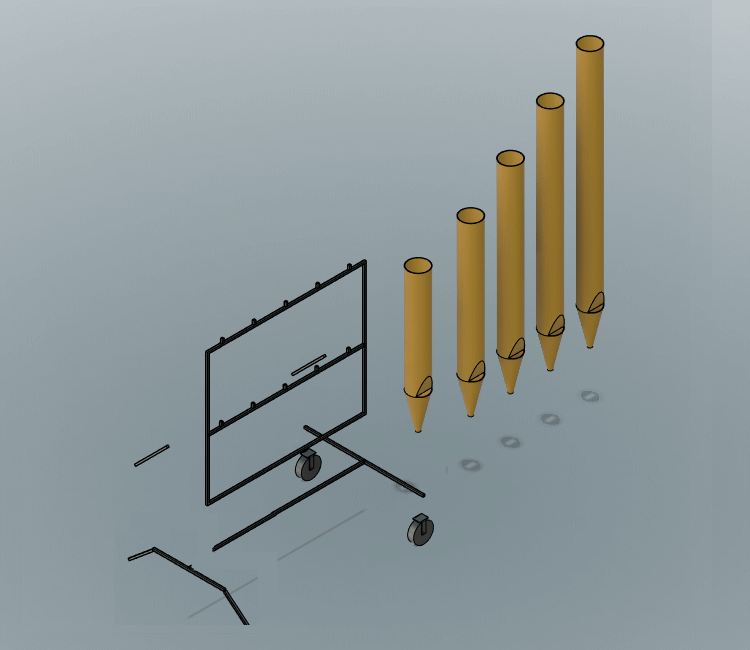
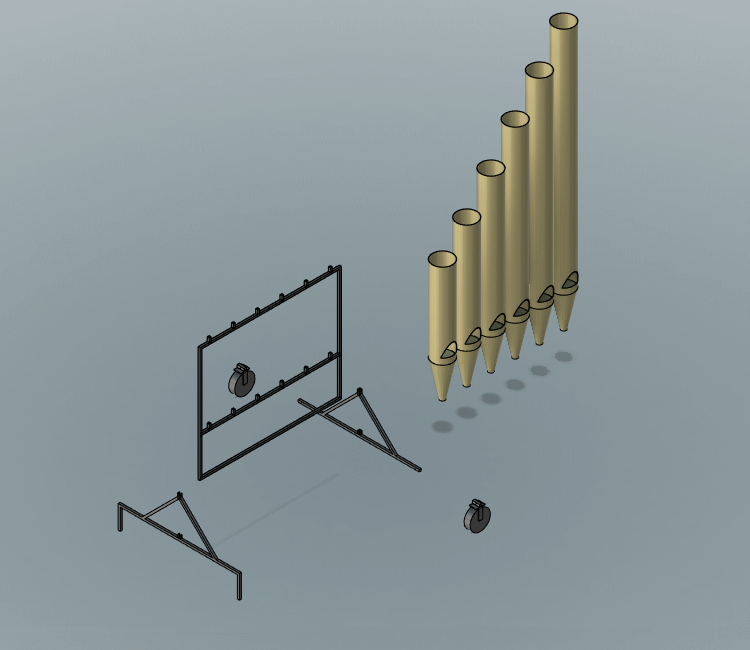
props update

diff --git a/projects/57/index.html b/projects/57/index.html
@@ -148,7 +148,7 @@
                                 <div class="col">
                                     <a href="animation_2.gif" target="_blank"><img src="animation_2.gif" class="figure-img img-fluid rounded" alt="..."></a>
                                 </div>
-                            </div>                            
+                            </div>
 
                             <div class="row">
                                 <div class="col">
@@ -187,8 +187,8 @@
                             </div>
 
                             <p>
-                                There will be a total of 7 back props, with each prop comprised of five pipes, each having a diameter of 10 inches. These pipes are hung from a frame with 16-inch center to center. The frame itself has a footprint of 80 inches by 60 inches. The pipes
-                                range in length from 11 feet to 6 feet, with 15-inch increments. The props are suspended one foot from the ground.
+                                There will be a total of 7 back props, with each prop comprised of six pipes, each having a diameter of 10 inches. These pipes are hung from a frame with 16-inch center to center. The frame itself has a footprint of 80 inches by 60 inches. The pipes range
+                                in length from 11 feet to 5 feet, with 15-inch increments. The props are suspended one foot from the ground.
                             </p>
 
                             <div class="row">
@@ -203,8 +203,9 @@
                             <p>
                                 The frames are designed with two fixed 10-inch wheels at one end and two metal feet at the other. The props can be moved by lifting the end with the feet and maneuvering them like a wheelbarrow.
                             </p>
+                            <a href="backPropBreakDown.gif" target="_blank"><img src="backPropBreakDown.gif" class="figure-img img-fluid rounded" alt="..."></a>
                             <p>
-                                The five pipes will be detached from the frame, and the frame itself will break down into smaller parts for transportation.
+                                The six pipes will be detached from the frame, and the frame itself will break down into smaller parts for transportation.
                             </p>
 
                         </div>
@@ -234,13 +235,11 @@
                         </p>
                         <p>
                             I was able to arrange all 45 organ pipes end-to-end and stack them in three stacks on one side of the trailer. This arrangement allows for all the electronics to be accommodated on the other side. However, there are a few considerations to keep in mind.
-                            <br/><br/>
-                             Firstly, the weight of the props alone is not sufficient to offset the weight of the electronics. Therefore, placing all the electronics at the back of the trailer could be unsafe, as it may cause the trailer to fishtail.
-                            Secondly, it is important to be able to load and unload the electronics without having to move any of the props. By achieving this goal, we will be able to leave the props on the trailer between contests and still use the trailer
-                            for football games where we would not need to unload or use the props.
-                            <br/> <br/> 
-                            I still need to work out where all the prop frame pieces will be stored, but I believe there is still enough space remaining in the trailer for these pieces. It is still on my list to design a rack to hold the organ pipes
-                            against the trailer wall.
+                            <br/><br/> Firstly, the weight of the props alone is not sufficient to offset the weight of the electronics. Therefore, placing all the electronics at the back of the trailer could be unsafe, as it may cause the trailer to
+                            fishtail. Secondly, it is important to be able to load and unload the electronics without having to move any of the props. By achieving this goal, we will be able to leave the props on the trailer between contests and still
+                            use the trailer for football games where we would not need to unload or use the props.
+                            <br/> <br/> I still need to work out where all the prop frame pieces will be stored, but I believe there is still enough space remaining in the trailer for these pieces. It is still on my list to design a rack to hold the organ
+                            pipes against the trailer wall.
                         </p>
 
                     </section>
@@ -259,10 +258,8 @@
                                 </div>
                             </div>
                             <p>
-                                The first thing I wanted to test was how difficult it would be to create the cone shape that makes up the foot 
-                                of an organ pipe. Initially, I thought I would need to use something like Ram Board, but then I considered the 
-                                possibility of cutting the form tube and shaping the end into a cone. It turned out to work quite well by 
-                                cutting eight triangles into the tube. 
+                                The first thing I wanted to test was how difficult it would be to create the cone shape that makes up the foot of an organ pipe. Initially, I thought I would need to use something like Ram Board, but then I considered the possibility of cutting the form
+                                tube and shaping the end into a cone. It turned out to work quite well by cutting eight triangles into the tube.
                             </p>
                             <div class="row">
                                 <div class="col">
@@ -280,7 +277,40 @@
                                 </div>
                                 <div class="col">
                                     <a href="4.jpg" target="_blank"><img src="4.jpg" class="figure-img img-fluid rounded" alt="..."></a>
+                                </div>
+                            </div>
 
+                            <p>
+                                I even created a jig to make it easier to cut the eight triangles into the tube.
+                            </p>
+                            <div class="row">
+                                <div class="col">
+                                    <a href="26.jpg" target="_blank"><img src="26.jpg" class="figure-img img-fluid rounded" alt="..."></a>
+                                </div>
+                            </div>
+                            <div class="row">
+                                <div class="col">
+                                    <a href="27.jpg" target="_blank"><img src="27.jpg" class="figure-img img-fluid rounded" alt="..."></a>
+                                </div>
+                                <div class="col">
+                                    <a href="28.jpg" target="_blank"><img src="28.jpg" class="figure-img img-fluid rounded" alt="..."></a>
+                                </div>
+                            </div>
+                            <div class="row">
+                                <div class="col">
+                                    <div class="embed-container"><iframe src="https://www.youtube.com/embed/HV4NLcw5NB8" frameborder="0" allow="accelerometer; autoplay; encrypted-media; gyroscope; picture-in-picture" allowfullscreen></iframe></div>
+                                </div>
+                            </div>
+
+                            <p> But it really didn't look that good and was going to be a lot work to do this for every organ pipe. So we tried making the code out of Ram Board. Which tuned out to be less work and looked better.
+                            </p>
+                            <div class="row">
+                                <div class="col-8">
+                                    <a href="23.jpg" target="_blank"><img src="23.jpg" class="figure-img img-fluid rounded" alt="..."></a>
+                                    <a href="25.jpg" target="_blank"><img src="25.jpg" class="figure-img img-fluid rounded" alt="..."></a>
+                                </div>
+                                <div class="col">
+                                    <a href="24.jpg" target="_blank"><img src="24.jpg" class="figure-img img-fluid rounded" alt="..."></a>
                                 </div>
                             </div>
 
@@ -297,52 +327,119 @@
                                 </div>
                             </div>
 
-                        </section>
-
-                        <section class="py-5 container">
-                            
-                            <div class="row">
-                                <div class="col">
-                                    <a href="drawing.png" target="_blank"><img src="drawing.png" class="figure-img img-fluid rounded" alt="..."></a>
-                                    <a href="15.jpg" target="_blank"><img src="15.jpg" class="figure-img img-fluid rounded" alt="..."></a>
-                                </div>
-                                <div class="col">
-                                    <a href="14.jpg" target="_blank"><img src="14.jpg" class="figure-img img-fluid rounded" alt="..."></a>
-                                </div>
-                            </div>                              
-
-                            <div class="row">
-                                <div class="col">
-                                    <a href="12.jpg" target="_blank"><img src="12.jpg" class="figure-img img-fluid rounded" alt="..."></a>
-                                </div>
-                                <div class="col">
-                                    <a href="11.jpg" target="_blank"><img src="11.jpg" class="figure-img img-fluid rounded" alt="..."></a>
-                                </div>
-                            </div>              
-                            
-                            <div class="row">
-                                <div class="col">
-                                    <a href="13.jpg" target="_blank"><img src="13.jpg" class="figure-img img-fluid rounded" alt="..."></a>
-                                </div>
-                                <div class="col">
-                                    <a href="10.jpg" target="_blank"><img src="10.jpg" class="figure-img img-fluid rounded" alt="..."></a>
-                                </div>
-                            </div>      
-                            
-                            
                     </section>
 
-                    <a href="20.jpg" target="_blank"><img src="20.jpg" class="figure-img img-fluid rounded" alt="..."></a>
-                    <a href="21.jpg" target="_blank"><img src="21.jpg" class="figure-img img-fluid rounded" alt="..."></a>
+                    <section class="py-5 container">
+                        <p class="text-center">
+                            The front props need frames that come apart easy.
+                        </p>
 
-                    <a href="22.jpg" target="_blank"><img src="22.jpg" class="figure-img img-fluid rounded" alt="..."></a>
+                        <div class="row">
+                            <div class="col-8">
+                                <div class="row">
+                                    <div class="col">
+                                        <a href="drawing.png" target="_blank"><img src="drawing.png" class="figure-img img-fluid rounded" alt="..."></a>
+                                    </div>
+                                    <div class="col">
+                                        <a href="14.jpg" target="_blank"><img src="14.jpg" class="figure-img img-fluid rounded" alt="..."></a>
+                                    </div>
+                                </div>
+                                <div class="row">
+                                    <div class="col">
+                                        <a href="15.jpg" target="_blank"><img src="15.jpg" class="figure-img img-fluid rounded" alt="..."></a>
+                                    </div>
+                                </div>
+                            </div>
+                            <div class="col-4">
+                                <a href="13.jpg" target="_blank"><img src="13.jpg" class="figure-img img-fluid rounded" alt="..."></a>
+                            </div>
+                        </div>
 
-                    <div class="embed-container"><iframe src="https://www.youtube.com/embed/4I9QciwlvmE" frameborder="0" allow="accelerometer; autoplay; encrypted-media; gyroscope; picture-in-picture" allowfullscreen></iframe></div>
-          
-                    <div class="embed-container"><iframe src="https://www.youtube.com/embed/AvVVT9IF8t8" frameborder="0" allow="accelerometer; autoplay; encrypted-media; gyroscope; picture-in-picture" allowfullscreen></iframe></div>
-          
 
-<!-- 
+
+
+                        <p class="text-center">
+                            This year I am tring a new method for locking the the pipe inside another pipe using <a href="https://www.amazon.com/dp/B0BJ8S43F5?psc=1&ref=ppx_pop_dt_b_product_details">Telescopic Locking Tube Pole Clips</a>
+                        </p>
+                        <div class="row">
+                            <div class="col">
+                                <a href="18.jpg" target="_blank"><img src="18.jpg" class="figure-img img-fluid rounded" alt="..."></a>
+                            </div>
+                        </div>
+                        <div class="row">
+                            <div class="col">
+                                <a href="16.jpg" target="_blank"><img src="16.jpg" class="figure-img img-fluid rounded" alt="..."></a>
+                            </div>
+                            <div class="col">
+                                <a href="17.jpg" target="_blank"><img src="17.jpg" class="figure-img img-fluid rounded" alt="..."></a>
+                            </div>
+                        </div>
+
+
+                        <p class="text-center">
+                            To hang the organ pipe, it needs internal support
+                        </p>
+                        <div class="row">
+                            <div class="col-8">
+                                <div class="row">
+                                    <div class="col">
+                                        <a href="12.jpg" target="_blank"><img src="12.jpg" class="figure-img img-fluid rounded" alt="..."></a>
+                                    </div>
+                                </div>
+                                <div class="row">
+                                    <div class="col">
+                                        <a href="11.jpg" target="_blank"><img src="11.jpg" class="figure-img img-fluid rounded" alt="..."></a>
+                                    </div>
+                                </div>
+                            </div>
+                            <div class="col">
+                                <a href="10.jpg" target="_blank"><img src="10.jpg" class="figure-img img-fluid rounded" alt="..."></a>
+                            </div>
+                        </div>
+                    </section>
+
+                    <section class="py-5 container">
+                        <p class="text-center">
+                            We built a 11 foot front prop and a 11 foot and 5 foot organ pipe for the back prop for pratice and to see the scale. They also got a coat of white primer.
+                        </p>
+                        <div class="row">
+                            <div class="col">
+                                <a href="30.jpg" target="_blank"><img src="30.jpg" class="figure-img img-fluid rounded" alt="..."></a>
+                            </div>
+                        </div>
+                        <div class="row">
+                            <div class="col">
+                                <a href="20.jpg" target="_blank"><img src="20.jpg" class="figure-img img-fluid rounded" alt="..."></a>
+                            </div>
+                            <div class="col">
+                                <a href="21.jpg" target="_blank"><img src="21.jpg" class="figure-img img-fluid rounded" alt="..."></a>
+                            </div>
+                        </div>
+                        <p>
+                            And we did a swing test. The 9.5 foot 1 inch tubing pole needs to be stiffen. It flexs too much from the weight of the organ pipedreams
+                            and the swinging motion. 
+                        </p>
+                        <div class="embed-container"><iframe src="https://www.youtube.com/embed/4I9QciwlvmE" frameborder="0" allow="accelerometer; autoplay; encrypted-media; gyroscope; picture-in-picture" allowfullscreen></iframe></div>
+
+                    </section>
+
+                    <section class="py-5 container">
+                        <p class="text-center">
+                            And we put the wheels on the 11 foot front prop to test easy it is to move on and off the field.
+                        </p>
+                        <div class="row">
+                            <div class="col">
+                                <a href="22.jpg" target="_blank"><img src="22.jpg" class="figure-img img-fluid rounded" alt="..."></a>
+                            </div>
+                        </div>
+                        <div class="embed-container"><iframe src="https://www.youtube.com/embed/AvVVT9IF8t8" frameborder="0" allow="accelerometer; autoplay; encrypted-media; gyroscope; picture-in-picture" allowfullscreen></iframe></div>
+                    </section>
+
+
+
+
+
+                    <!-- 
                     <section class="py-5 container">
                         <h2> Parts and Budget</h2>
                         <div class="text-center">

diff --git a/projects/56/index.html b/projects/56/index.html
@@ -17,12 +17,12 @@
     </script>
 
 
-    <title>2023 Winter Guard Props</title>
+    <title>2022 Winter Guard Props</title>
     <meta charset="utf-8" />
     <meta name="viewport" content="width=device-width, initial-scale=1, shrink-to-fit=no" />
 
-    <meta property="og:title" content="2023 Winter Guard Props" />
-    <meta property="og:site_name" content="2023 Winter Guard Props" />
+    <meta property="og:title" content="2022 Winter Guard Props" />
+    <meta property="og:site_name" content="2022 Winter Guard Props" />
     <meta property="og:description" content="" />
     <meta name="description" content="" />
     <meta property="og:image" content="http://makeratplay.com/assets/img/portfolio/thumbnails/56.jpg" />
@@ -91,7 +91,7 @@
             <div class="row">
                 <div class="col-lg-9 col-md-10 mx-auto">
                     <div class="post-heading">
-                        <h1>2023 Winter Guard Props</h1>
+                        <h1>2022 Winter Guard Props</h1>
                         <h2 class="subheading">Take two on the wings</h2>
                         <span class="meta"></span>
                     </div>
